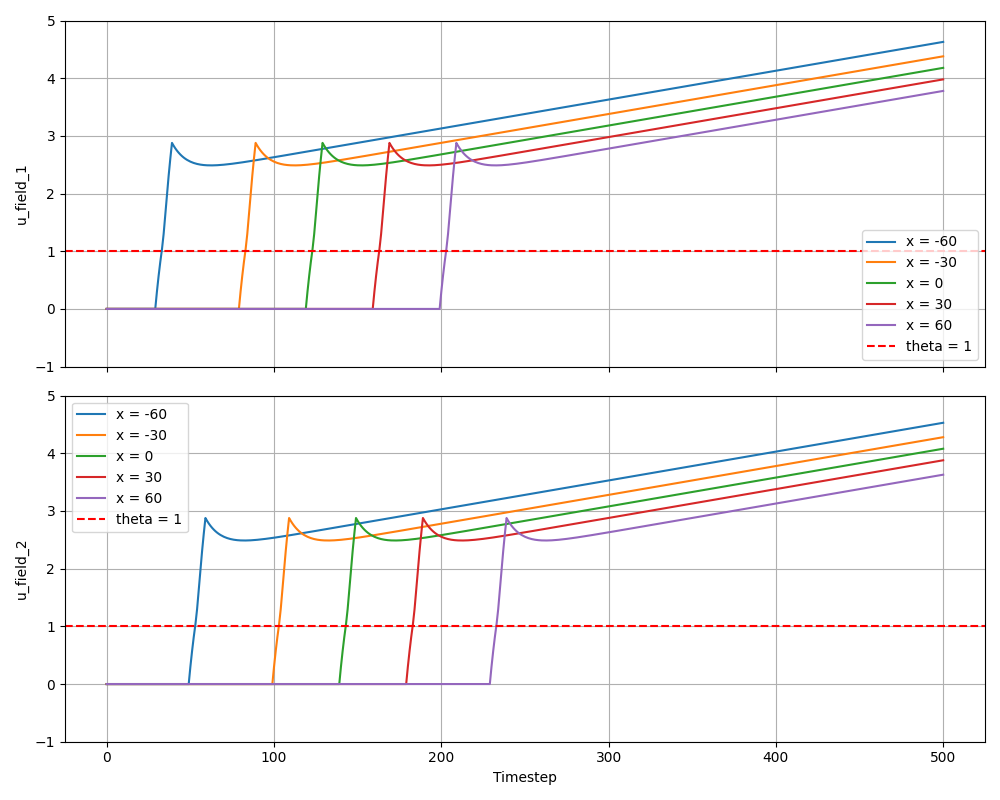
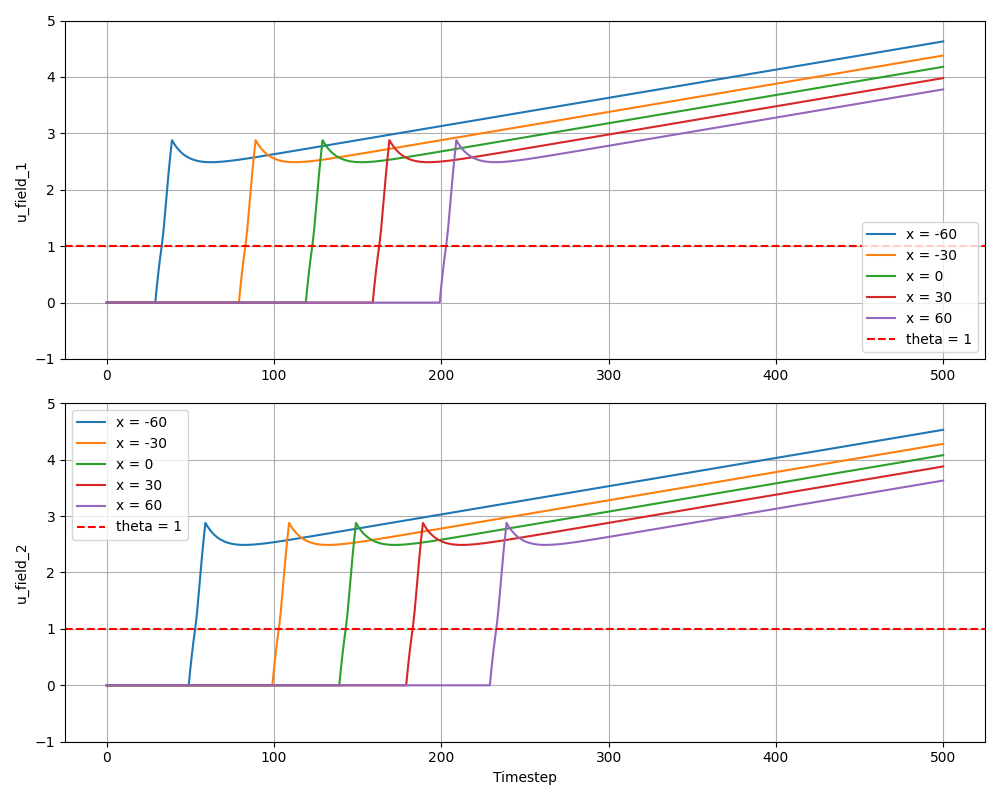
plotting u_d

diff --git a/code/learning_two_fields.py b/code/learning_two_fields.py
@@ -29,7 +29,7 @@ h_0 = 0
 
 h_0_d = 0
 tau_h_d = 20
-theta_d = 1.5
+# theta_d = 1.5
 # kernel_pars_d = [1, 0.7, 0.9]  # SAME as kernel_pars
 
 input_flag = True
@@ -38,11 +38,11 @@ input_duration = [1, 1, 1, 1, 1]  # same for both
 
 # Positions for input set 1
 input_position_1 = [-60, -30, 0, 30, 60]
-input_onset_time_1 = [3, 8, 12, 16, 20]
+input_onset_time_1 = [13, 18, 22, 26, 30]
 
 # Positions for input set 2
 input_position_2 = input_position_1  # [-50, -30, 10, 35, 65]
-input_onset_time_2 = [5, 10, 14, 18, 23]
+input_onset_time_2 = [15, 20, 24, 28, 33]
 
 # Pack parameters for each input set
 input_pars_1 = [input_shape, input_position_1,
@@ -128,6 +128,7 @@ if save_video:
 # time_counter = 0.0
 u_1_tc = []
 u_2_tc = []
+u_d_tc = []
 
 for i in range(len(t)):
 
@@ -161,9 +162,11 @@ for i in range(len(t)):
 
     u_1_values = [u_field_1[idx] for idx in input_indices_1]
     u_2_values = [u_field_2[idx] for idx in input_indices_1]
+    u_d_value = u_d[int(len(x) / 2)]
 
     u_1_tc.append(u_1_values)
     u_2_tc.append(u_2_values)
+    u_d_tc.append(u_d_value)
 
     # time_counter += dt
 
@@ -225,10 +228,11 @@ plt.show()
 
 u_f1_history = np.array(u_1_tc)
 u_f2_history = np.array(u_2_tc)
+u_d_history = np.array(u_d_tc)
 
 timesteps = np.arange(len(u_f1_history))
 
-fig, axs = plt.subplots(2, 1, figsize=(10, 8), sharex=True)
+fig, axs = plt.subplots(3, 1, figsize=(12, 8), sharex=False)
 
 # Plot u_field_1
 for i, pos in enumerate(input_position_1):
@@ -248,6 +252,17 @@ axs[1].set_xlabel('Timestep')
 axs[1].set_ylim(-1, 5)
 axs[1].legend()
 axs[1].grid(True)
+
+# Plot u_d
+# for i, pos in enumerate([0]):
+axs[2].plot(timesteps, u_d_history, label='x = 0')
+axs[2].axhline(theta, color='r', linestyle='--', label='theta = 1')
+axs[2].set_ylabel('u_d')
+axs[2].set_xlabel('Timestep')
+axs[2].set_ylim(-1, 3)
+axs[2].set_xlim(0, 100)
+axs[2].legend()
+axs[2].grid(True)
 
 plt.tight_layout()
 plt.show()

diff --git a/code/recall_two_fields.py b/code/recall_two_fields.py
@@ -47,7 +47,7 @@ trial_number = int(sys.argv[1]) if len(sys.argv) > 1 else 1
 
 # Define input_onset_time_2 values for different trials
 input_onset_time_by_trial = {
-    1: [8, 12, 16, 26, 30],   # Default
+    1: [18, 22, 26, 36, 40],   # Default
     2: [10, 14, 20, 28, 32],  # Example for trial 2
     3: [5, 15, 25, 35, 45],   # You can add more if needed
 }
@@ -73,7 +73,7 @@ kernel_pars_error = [1.5, 0.8, 0.0]  # same as in act
 
 x_lim, t_lim = 80, 50
 dx, dt = 0.1, 0.1
-theta = 1
+# theta = 1
 
 # x = np.linspace(-x_lim, x_lim, 200)
 x = np.arange(-x_lim, x_lim + dx, dx)
@@ -484,7 +484,7 @@ u_f2_history = np.array(u_f2_history)
 timesteps = np.arange(len(u_act_history))
 
 # Set up figure with 5 subplots
-fig, axs = plt.subplots(5, 1, figsize=(10, 14), sharex=True)
+fig, axs = plt.subplots(5, 1, figsize=(10, 14), sharex=False)
 
 field_histories = [
     (u_act_history, 'u_act'),
